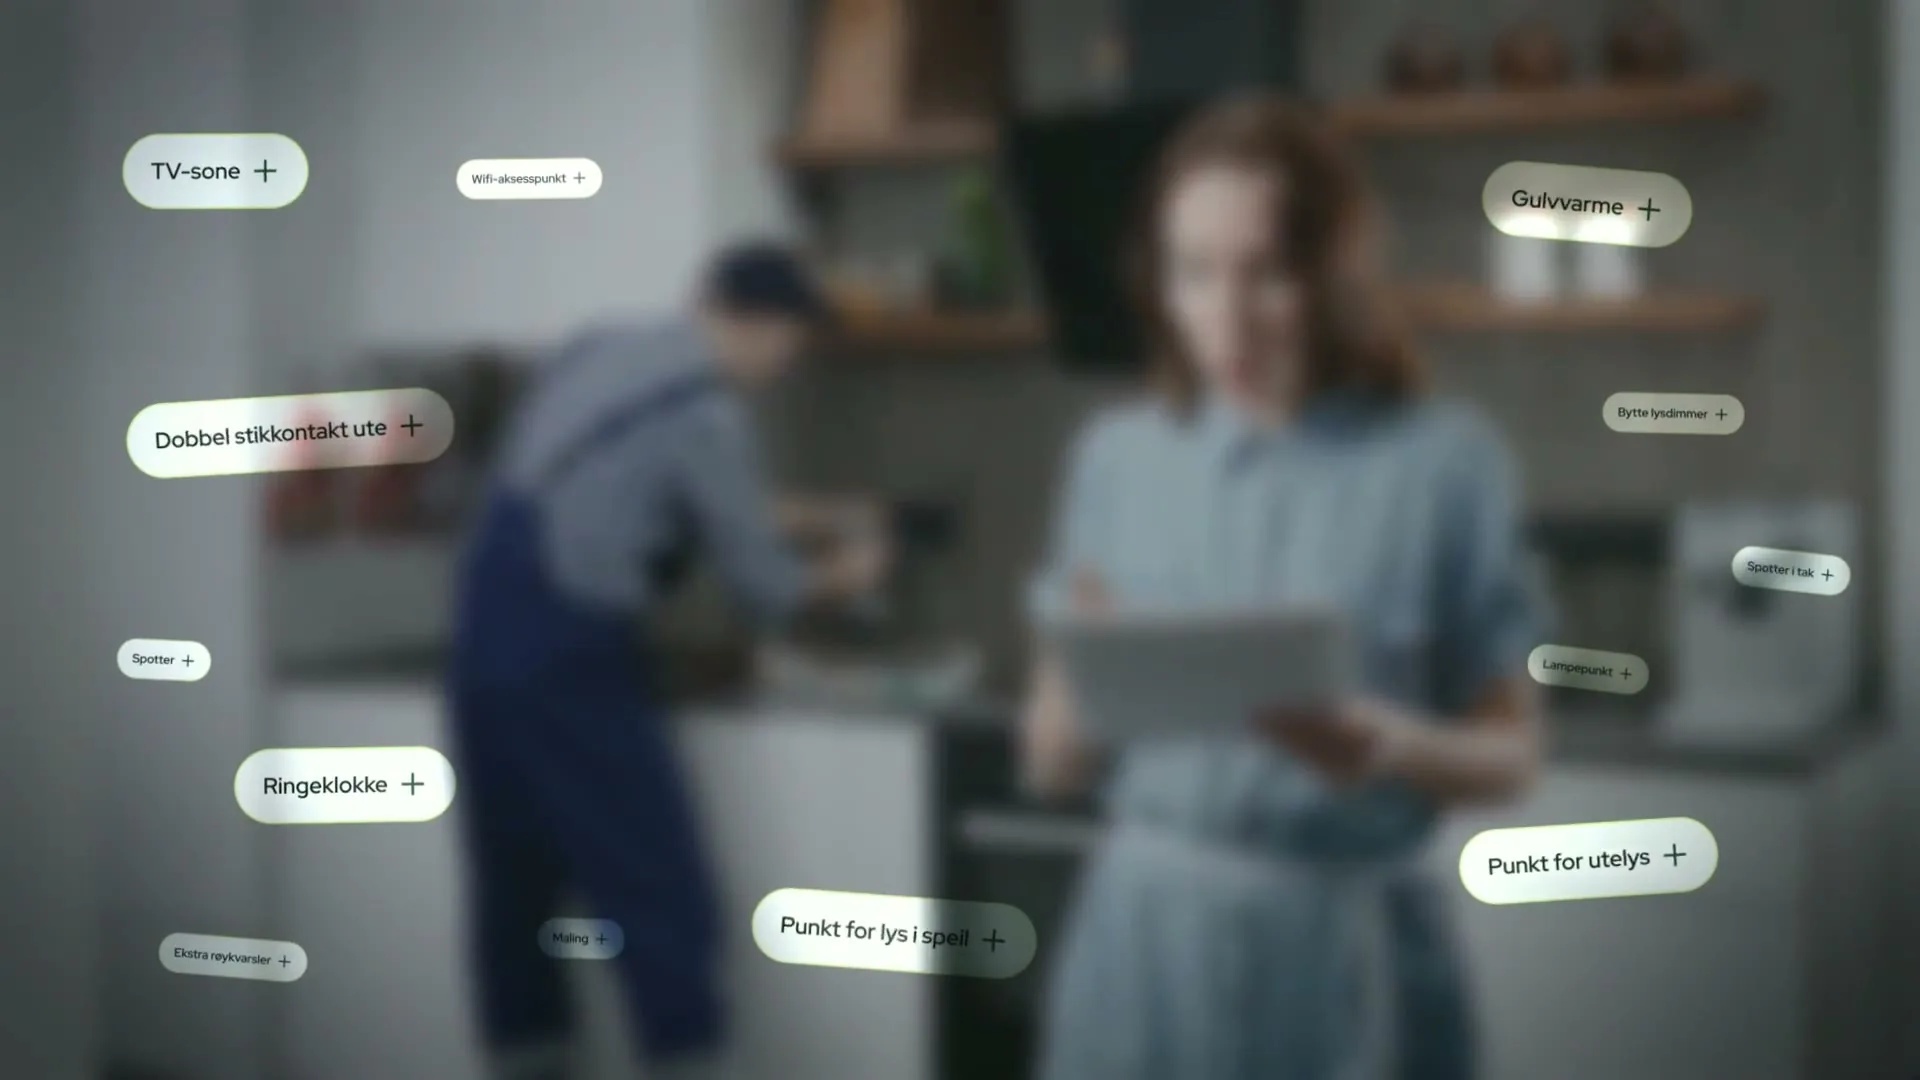
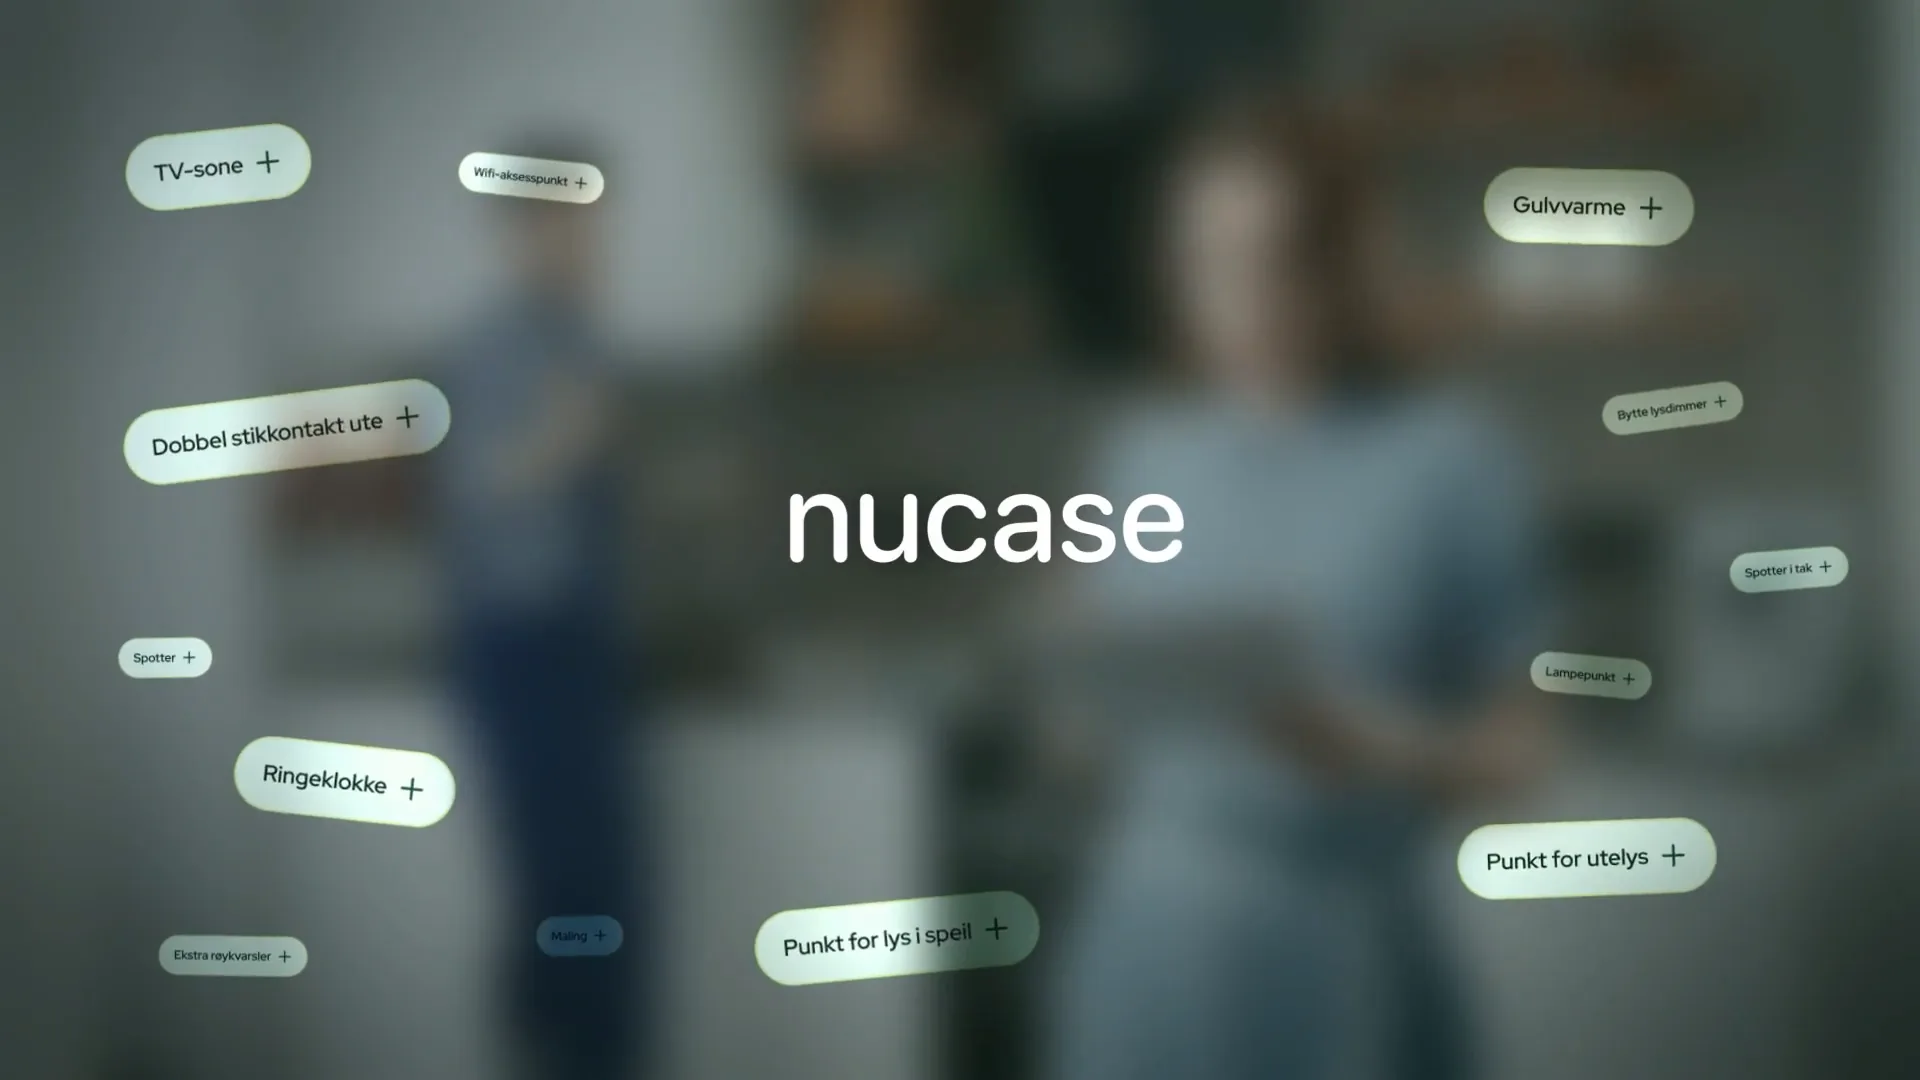
✨ (content): Lead the Nucase page with its three-screen cover

diff --git a/client/content/projects/nucase.ts b/client/content/projects/nucase.ts
@@ -38,9 +38,9 @@ export const nucase = {
     type: "figure",
     frame: "bleed",
     shot: {
-      src: phones,
-      alt: "Nucase on three phones: choosing the areas to renovate, the price estimate by area and the finished report, with the beaver mascots",
-      caption: "Areas, price estimate and report, on mobile",
+      src: screens,
+      alt: "Nucase on three phones: the partner sign-up, the work to add for an area with its price, and the areas of a home",
+      caption: "Partner sign-up, tasks and areas, on mobile",
     },
   },
   overview: [
@@ -49,7 +49,10 @@ export const nucase = {
   ],
   video: {
     src: "https://vvcwfr2nfw2kpgef.public.blob.vercel-storage.com/films/nucase-hVXWavgb97nz12jzH11fVk8wn6EYql.mp4",
-    poster: { src: filmPoster, alt: "The Nucase film, on its first frame" },
+    poster: {
+      src: filmPoster,
+      alt: "The Nucase film: the wordmark over a kitchen, surrounded by renovation tasks",
+    },
     title: "the Nucase film",
     duration: "1 minute",
   },
@@ -79,6 +82,15 @@ export const nucase = {
           caption: "Add the work for each area",
         },
       ],
+    },
+    {
+      type: "figure",
+      frame: "bleed",
+      shot: {
+        src: phones,
+        alt: "Nucase on three phones: choosing the areas to renovate, the price estimate by area and the finished report, with the beaver mascots",
+        caption: "Areas, price estimate and report, on mobile",
+      },
     },
     {
       type: "chapter",
